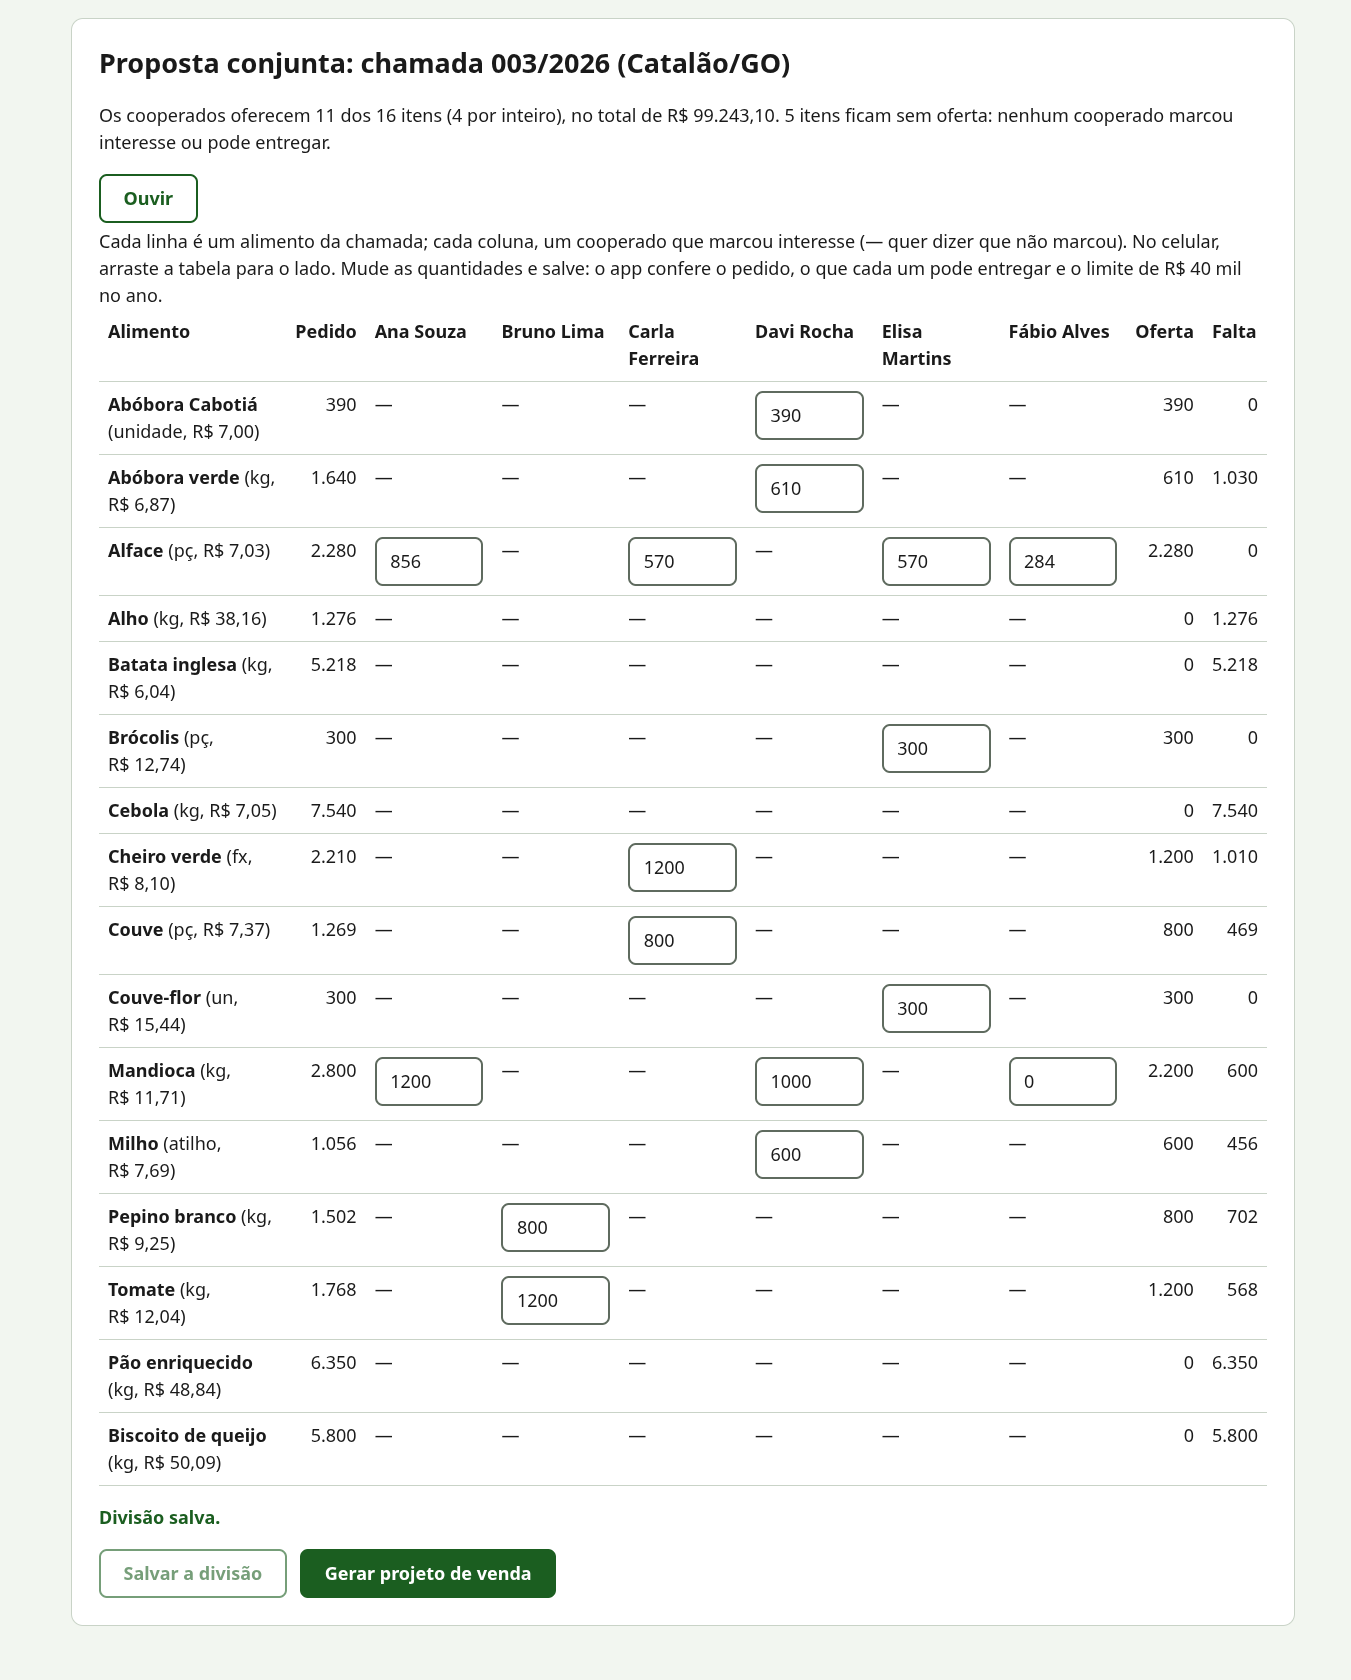
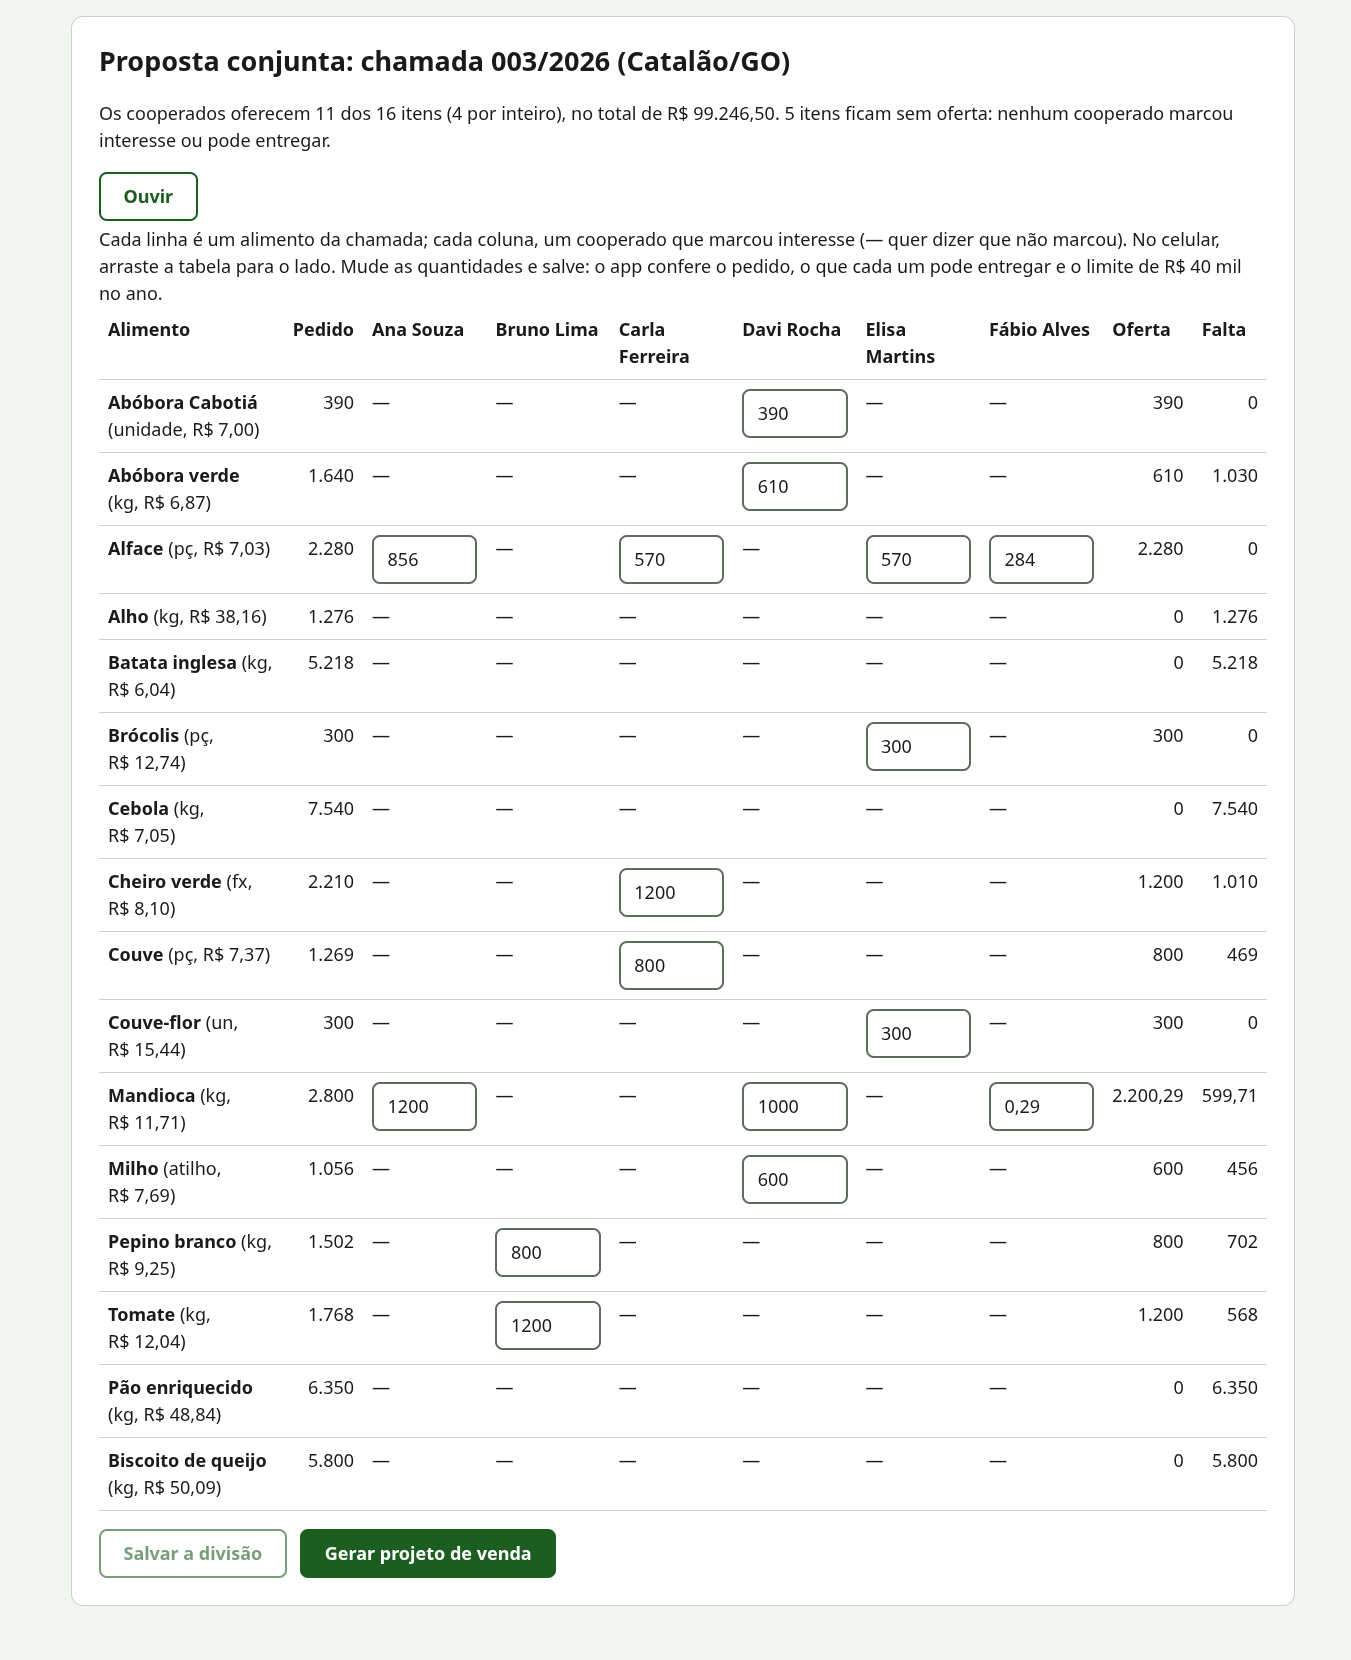
docs(entrega): prints 9 e 12 refeitos com a divisão em inteiros que o app faz sozinho, sem edição, e a contagem de testes

diff --git a/entrega/evidencias.md b/entrega/evidencias.md
@@ -293,7 +293,7 @@ Um uso completo, com os usuários de demonstração e a chamada real de Catalão
 1. **A prefeitura publica a chamada.** Ela envia o PDF do edital, a IA lê (prints 2 e 3, na seção 3.1), ela confere e publica. A chamada 003/2026 publicada, com os 16 itens, é a do print 4: no app de demonstração ela já vem publicada de antes, e a tela a marca como "Leitura já conferida antes (cache)". A leitura que a IA fez na hora é a dos prints 2 e 3.
 2. **A agricultora acha a oportunidade.** A Ana entra e vê a chamada da cidade dela, com quanto pode ganhar: até R$ 21.082,00 (print 5).
 3. **O assistente ajuda a decidir.** Ela pergunta se pode entregar 50 de alface por semana, e a resposta faz a conta (print 6, na seção 3.1) e preenche o campo. Ela toca em "Quero participar", e o interesse vai para a cooperativa (print 7).
-4. **A cooperativa monta a proposta.** O app divide cada item entre os cooperados que plantam, respeitando o que cada um produz e o limite de R$ 40 mil por ano. A cooperativa ajusta a alface para números inteiros e salva a divisão (print 9).
+4. **A cooperativa monta a proposta.** O app divide cada item entre os cooperados que plantam, respeitando o que cada um produz e o limite de R$ 40 mil por ano. O que se conta em unidade (a alface em pç, o maço, a dúzia) sai em números inteiros, e o kg segue com centésimos. A divisão aparece pronta, do jeito que o app a calcula, sem edição (print 9); a cooperativa pode mudá-la e salvar, e o app confere de novo.
 5. **O projeto de venda sai pronto.** "Gerar projeto de venda" preenche o modelo do FNDE com cada agricultor, os itens e os valores; o que o app não guarda fica em branco, para escrever à mão (print 10).
 6. **A câmara fria guarda os alimentos.** As leituras chegam a cada segundo, e quando a temperatura passa de 10 °C a faixa vermelha avisa (print 11, na seção 5.2).
 7. **A entrega é registrada, e a prefeitura acompanha.** A cooperativa registra a entrega de 300 kg de mandioca (R$ 3.513,00). A prefeitura vê a proposta recebida, a entrega e quanto falta para a meta do ano (print 12).
@@ -304,7 +304,7 @@ Um uso completo, com os usuários de demonstração e a chamada real de Catalão
 
 ![**Print 7.** A sugestão do assistente foi para o campo da alface; com "Quero participar", a cooperativa passa a ver o que a Ana quer vender.](prints/07-quero-participar.png){width=95mm}
 
-![**Print 9.** Trecho da tela da cooperativa, a proposta conjunta: cada item dividido entre os cooperados, com a oferta e a falta. O Fábio fica com pouca alface porque está perto do limite de R$ 40 mil no ano. A divisão foi ajustada para números inteiros e salva.](prints/09-cooperativa-proposta.png)
+![**Print 9.** Trecho da tela da cooperativa, a proposta conjunta, como o app a monta sozinho, sem nenhuma edição: cada item dividido entre os cooperados, com a oferta e a falta. A alface (em pç) sai em números inteiros, 856, 570, 570 e 284, porque um pé de alface não se divide; o kg segue com centésimos (a mandioca do Fábio, 0,29 kg). O Fábio fica com pouca alface e quase nenhuma mandioca porque está perto do limite de R$ 40 mil no ano.](prints/09-cooperativa-proposta.png)
 
 ![**Print 10.** O projeto de venda gerado no modelo do FNDE (parte II, os agricultores e os alimentos de cada um), pronto para imprimir.](prints/10-projeto-venda.png)
 
@@ -388,7 +388,7 @@ A saída dos comandos, em `devops/evidencias/seguranca.txt`:
 | CT14 | teste de fumaça com o Docker Compose | passou |
 | CT15 | pipeline de ponta a ponta no Jenkins | passou |
 
-**A execução:** 250 testes automatizados, todos passando: 122 no app (`node --test`), 86 na IA, 27 nos dados e 15 no simulador (`unittest`). Nenhum chama a API da Anthropic. Resumo de `devops/evidencias/testes.txt`, que traz a saída completa, teste a teste:
+**A execução:** 255 testes automatizados, todos passando: 127 no app (`node --test`), 86 na IA, 27 nos dados e 15 no simulador (`unittest`). Nenhum chama a API da Anthropic. Resumo de `devops/evidencias/testes.txt`, que traz a saída completa, teste a teste:
 
 ```{.text incluir="../devops/evidencias/testes.txt" comeca="# ;$ ;ℹ tests;ℹ pass;ℹ fail;Ran ;OK;FAILED;(código de saída"}
 ```
